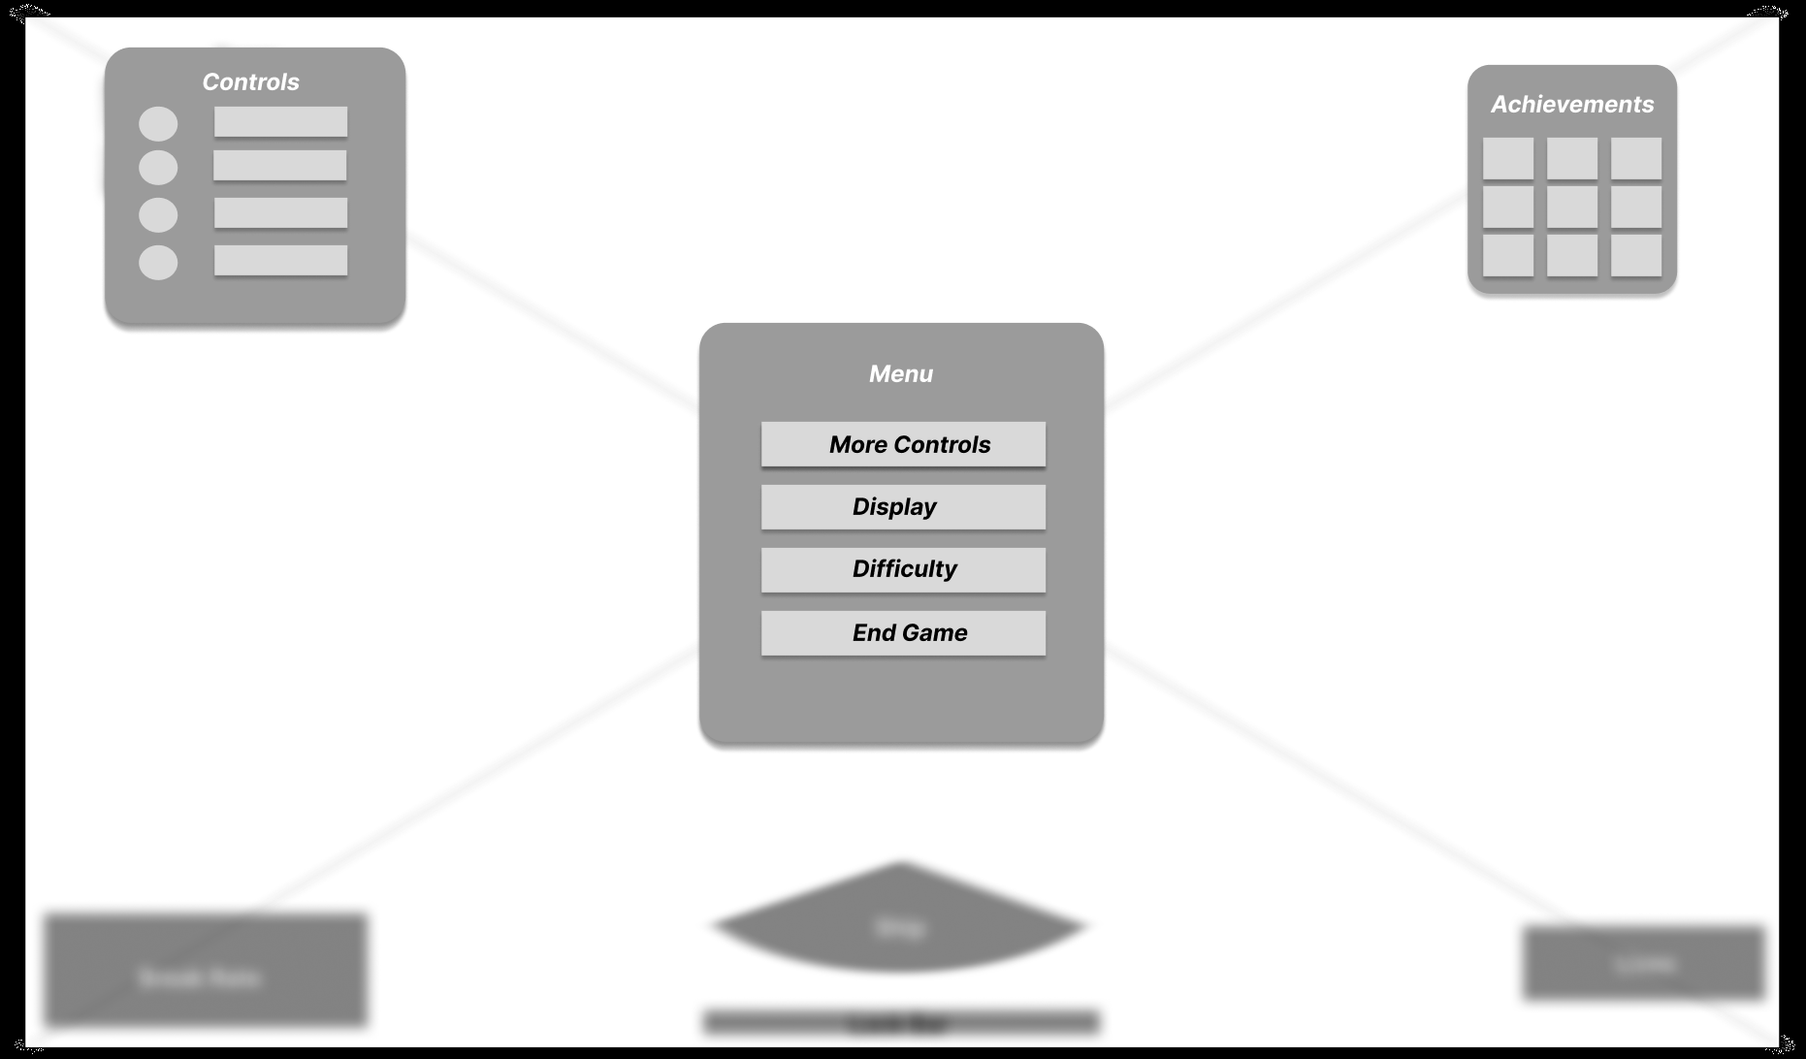
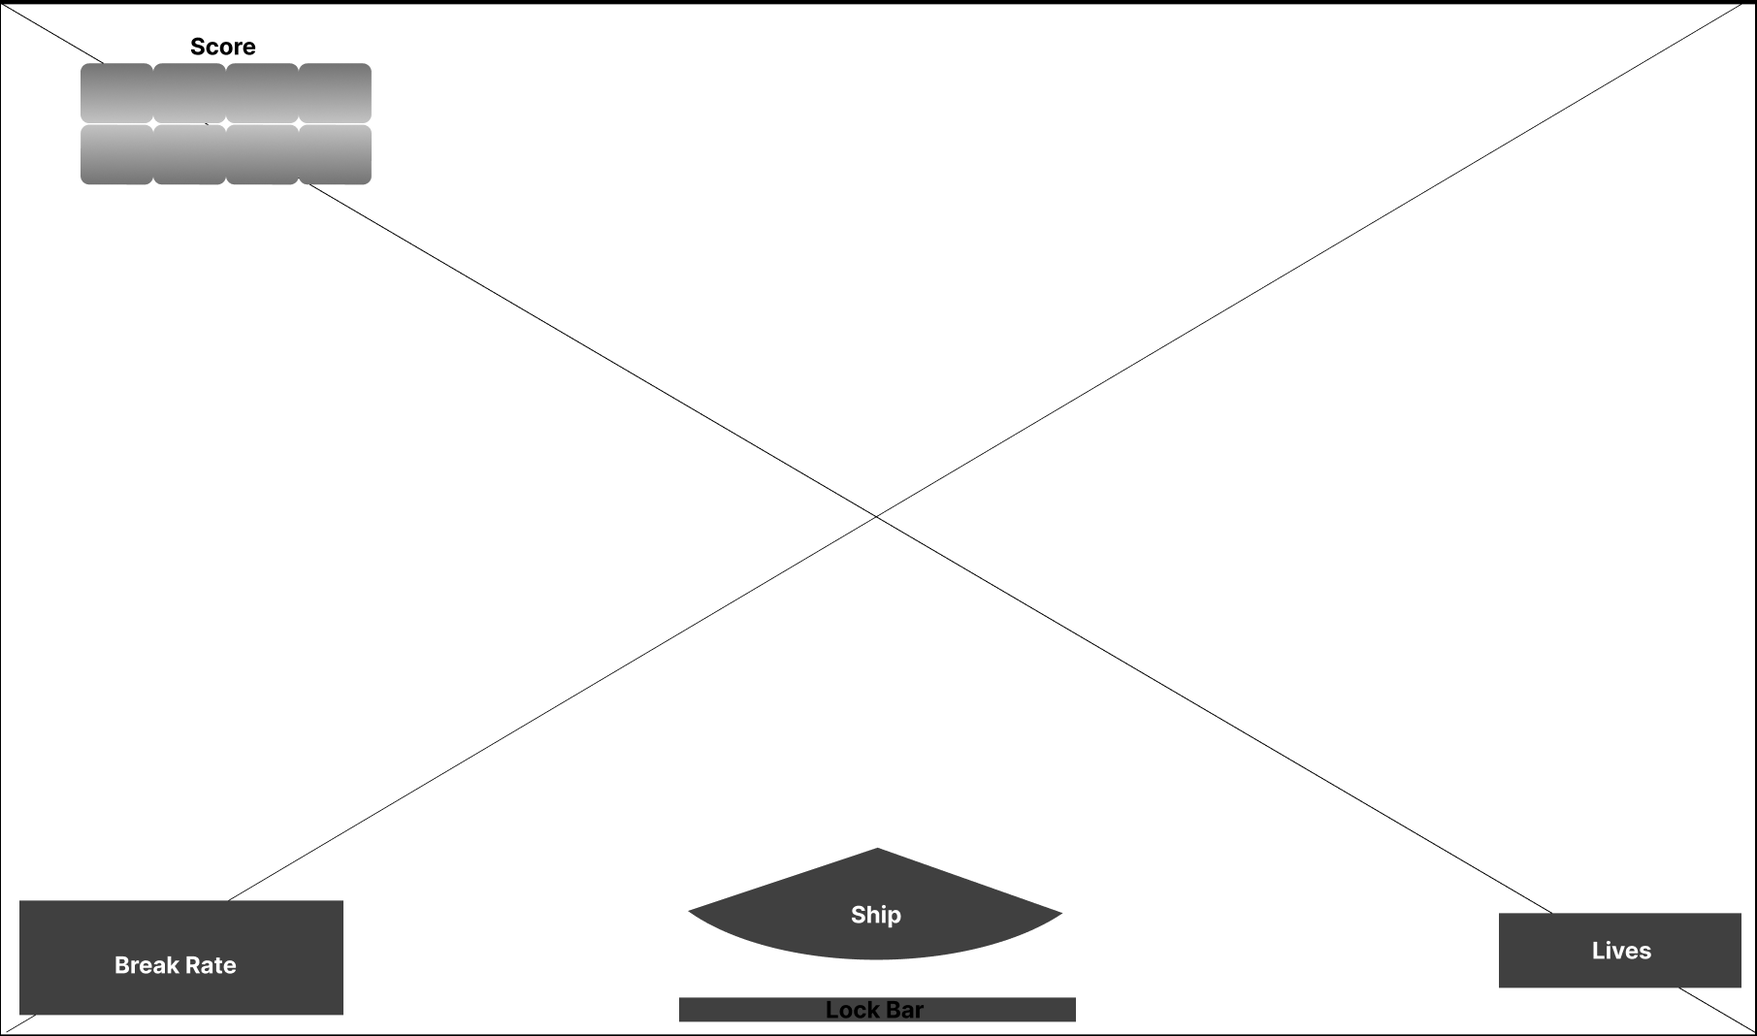
Fix Crimson Clover wireframes and layout

Changed region(s): [[0.0, 0.0, 1.0, 1.0], [0.3711, 0.2781, 0.6184, 0.7107], [0.804, 0.0618, 0.9277, 0.309]]

diff --git a/crimson-clover.html b/crimson-clover.html
@@ -4,11 +4,10 @@
 :root{--bg:#0b1220;--card:#152238;--accent:#3d9cff;--text:#f5f7fa;--muted:#afbed2;--border:#293b55;--pink:#f02483}*{box-sizing:border-box}html{scroll-behavior:smooth}body{margin:0;background:var(--bg);color:var(--text);font:16px/1.75 Arial,Helvetica,sans-serif}a{color:inherit}.container{max-width:1200px;margin:auto;padding:0 28px}nav{display:flex;justify-content:space-between;align-items:center;padding:26px 0;border-bottom:1px solid var(--border)}.logo{font-size:21px;font-weight:800;letter-spacing:-1px;text-decoration:none}.logo span{color:var(--accent)}nav .links{display:flex;gap:24px}nav .links a{text-decoration:none;color:var(--muted);font-size:14px}nav .links a:hover{color:var(--accent)}.eyebrow{color:var(--accent);font-size:12px;letter-spacing:2.4px;text-transform:uppercase;font-weight:800}.hero{padding:86px 0 64px}h1{font-size:clamp(44px,6vw,76px);letter-spacing:-2.5px;line-height:1.1;max-width:1000px;margin:15px 0 20px}h1 em{font-style:normal;color:var(--pink)}h2{font-size:clamp(29px,3.5vw,44px);letter-spacing:-1.3px;line-height:1.2;margin:12px 0 20px}h3{font-size:21px;line-height:1.3;margin:0 0 10px}p{color:var(--muted);margin:0 0 18px}.lead{font-size:19px;max-width:780px}.chips{display:flex;flex-wrap:wrap;gap:10px;margin:24px 0}.chip{border:1px solid var(--border);background:var(--card);border-radius:100px;padding:6px 14px;color:#d8e3f2;font-size:12px}.btns{display:flex;flex-wrap:wrap;gap:12px;margin:26px 0 0}.btn{padding:12px 22px;border-radius:28px;background:var(--accent);color:#07101e;text-decoration:none;font-weight:700;font-size:14px}.btn.secondary{background:transparent;border:1px solid var(--accent);color:var(--text)}.figure{background:#101b2d;border:1px solid var(--border);border-radius:15px;padding:16px;margin:24px 0;overflow:hidden}.figure img{display:block;width:100%;height:auto;border-radius:8px}.figure figcaption{color:var(--muted);font-size:13px;margin-top:12px;line-height:1.6}.hero .figure{margin-top:35px}.section{padding:74px 0;border-top:1px solid var(--border)}.section .intro{max-width:830px}.grid2{display:grid;grid-template-columns:repeat(2,minmax(0,1fr));gap:20px}.grid3{display:grid;grid-template-columns:repeat(3,minmax(0,1fr));gap:18px}.panel{background:var(--card);border:1px solid var(--border);border-radius:15px;padding:24px}.panel p:last-child{margin-bottom:0}.panel .number{font-size:12px;color:var(--accent);font-weight:bold;letter-spacing:2px}.note{border-left:3px solid var(--pink);padding:12px 20px;background:#121e32;color:#d5e2f2;border-radius:0 10px 10px 0;margin:22px 0}.reference{margin:0;background:var(--card);border:1px solid var(--border);border-radius:14px;overflow:hidden}.reference img{width:100%;aspect-ratio:16/10;object-fit:cover;display:block}.reference div{padding:18px}.reference p{font-size:14px;margin:0}.compare .figure{margin:0}.small{font-size:14px}.callout{font-size:18px;color:#e9f2ff;max-width:850px}footer{border-top:1px solid var(--border);padding:30px 0 50px;color:var(--muted);font-size:13px}.back{color:var(--accent);text-decoration:none;font-size:14px}@media(max-width:800px){.grid2,.grid3{grid-template-columns:1fr}.hero{padding:62px 0 48px}.section{padding:54px 0}nav{flex-wrap:wrap;gap:12px}.container{padding:0 20px}.figure{padding:9px}h1{letter-spacing:-1.5px}}@media(max-width:400px){nav .links{gap:12px}nav .links a{font-size:12px}}
 </style></head><body><div class="container">
 <nav><a class="logo" href="index.html">ARRIYN AZAD<span>.</span></a><div class="links"><a href="index.html">Home</a><a href="index.html#work">Work</a><a href="about.html">About</a><a href="index.html#contact">Contact</a></div></nav>
-<main><header class="hero"><div class="eyebrow">Game UI &amp; Interface Design · Independent Redesign</div><h1>Crimson Clover <em>HUD Redesign.</em></h1><p class="lead">Reimagining a fast-paced arcade shooter's heads-up display for widescreen play—making essential information easier to locate without taking attention away from the action.</p><div class="chips"><span class="chip">UI Audit &amp; Competitive Analysis</span><span class="chip">User Flow</span><span class="chip">Wireframing</span><span class="chip">Visual Design</span><span class="chip">User Feedback</span></div><div class="btns"><a class="btn" href="#challenge">Explore the Challenge ↓</a><a class="btn secondary" href="#final">See the Redesign ↓</a></div><figure class="figure"><img src="crimson-original.png" alt="Original Crimson Clover gameplay showing a vertically oriented playfield, dense side panels, score, lives, and break rate"><figcaption><strong>Starting point — Original Crimson Clover interface.</strong> The game presents action in a tall central playfield, surrounded by large decorative panels and multiple HUD elements.</figcaption></figure></header>
+<main><header class="hero"><div class="eyebrow">Game UI &amp; Interface Design · Independent Redesign</div><h1>Crimson Clover <em>HUD Redesign.</em></h1><p class="lead">Reimagining a fast-paced arcade shooter's heads-up display for widescreen play—making essential information easier to locate without taking attention away from the action.</p><div class="chips"><span class="chip">UI Audit &amp; Competitive Analysis</span><span class="chip">Wireframing</span><span class="chip">Visual Design</span><span class="chip">User Feedback</span></div><div class="btns"><a class="btn" href="#challenge">Explore the Challenge ↓</a><a class="btn secondary" href="#final">See the Redesign ↓</a></div><figure class="figure"><img src="crimson-original.png" alt="Original Crimson Clover gameplay showing a vertically oriented playfield, dense side panels, score, lives, and break rate"><figcaption><strong>Starting point — Original Crimson Clover interface.</strong> The game presents action in a tall central playfield, surrounded by large decorative panels and multiple HUD elements.</figcaption></figure></header>
 <section class="section" id="challenge"><div class="eyebrow">01 / Project Brief</div><h2>Making a classic arcade interface feel at home on modern screens.</h2><p class="intro">Crimson Clover is a bullet-hell arcade shooter where players track projectiles, enemies, their ship, and performance information simultaneously. In the original presentation, the redesign brief called for a widescreen layout, more intentional HUD placement, a visually distinctive score counter, button prompts, and better visibility of enemies during play.</p><div class="grid3"><div class="panel"><div class="number">CHALLENGE 01</div><h3>Adapt the layout</h3><p>Explore a wider presentation while preserving enough room for the gameplay itself.</p></div><div class="panel"><div class="number">CHALLENGE 02</div><h3>Prioritize essential data</h3><p>Make score, lives, break rate, and the lock meter easy to locate at a glance.</p></div><div class="panel"><div class="number">CHALLENGE 03</div><h3>Support new players</h3><p>Introduce clear button prompts and a pause-menu structure for controls and settings.</p></div></div><div class="note">Design goal: reduce competing visual elements around the playfield while keeping information available when players need it. This is a conceptual UI redesign, not an implemented modification of the game.</div></section>
 <section class="section" id="research"><div class="eyebrow">02 / Research &amp; Competitive Analysis</div><h2>Learning from other arcade shooters.</h2><p class="intro">I compared three games in the genre to understand how color, contrast, and information placement affect readability during intense gameplay. Rather than copying a single interface, I used these observations to guide the Crimson Clover redesign.</p><div class="grid3"><article class="reference"><img src="crimson-reference-zeroranger.png" alt="Competitive analysis slide featuring ZeroRanger"><div><h3>ZeroRanger</h3><p>Its dark backdrop and bright projectiles create contrast, but a strong concentration of orange suggested a risk of blending gameplay elements with the UI.</p></div></article><article class="reference"><img src="crimson-reference-jamestown.png" alt="Competitive analysis slide featuring Jamestown Legend of the Lost Colony"><div><h3>Jamestown</h3><p>The colorful action and identifiable enemies provided a reference for distinguishing active gameplay from supporting information.</p></div></article><article class="reference"><img src="crimson-reference-bluerevolver.png" alt="Competitive analysis slide featuring Blue Revolver"><div><h3>Blue Revolver</h3><p>Its readable bottom status bar showed how useful information can be grouped along an edge of the screen.</p></div></article></div><p class="small" style="margin-top:18px">These are qualitative observations from my competitive audit, not results from a controlled comparative study.</p></section>
-<section class="section" id="flow"><div class="eyebrow">03 / Information Architecture</div><h2>Mapping the player's journey.</h2><p class="intro">Before developing the interface, I mapped the journey from the main screen through game setup and into gameplay. The flow includes difficulty and mode selection, ship selection, an optional tutorial, and a level summary. Separate paths lead to settings and high scores.</p><figure class="figure"><img src="crimson-flow.png" alt="Pink-box user flow diagram showing main menu, game setup, gameplay, level summary, settings and high scores" loading="lazy"><figcaption>User flow — A proposed structure for moving between game setup, active play, settings, and progression.</figcaption></figure></section>
-<section class="section" id="wireframes"><div class="eyebrow">04 / Wireframing</div><h2>Repositioning the HUD before adding visual detail.</h2><p class="intro">I started by documenting the existing screen structure, then explored a widescreen wireframe that places the score at the upper left, break rate at the lower left, lives at the lower right, and the lock bar near the bottom center. This establishes predictable locations for information while leaving the central area available for gameplay.</p><div class="grid2 compare"><figure class="figure"><img src="crimson-wireframe-original.png" alt="Original wireframe showing a narrow gameplay area with side borders and HUD information" loading="lazy"><figcaption><strong>Original layout study.</strong> Large side borders surround the central playfield, with status information split between the borders and gameplay area.</figcaption></figure><figure class="figure"><img src="crimson-wireframe-hud.png" alt="Updated widescreen wireframe with score top left, break rate bottom left, lives bottom right and lock bar bottom center" loading="lazy"><figcaption><strong>Revised gameplay wireframe.</strong> The main HUD elements move to screen corners and edges to free up the middle.</figcaption></figure></div><h3 style="margin-top:34px">Designing the pause-menu state</h3><p class="intro">I also explored how players could access guidance without permanently displaying instructions over gameplay. The pause-menu wireframe introduces a controls reference, an achievements panel, and a central settings menu.</p><figure class="figure"><img src="crimson-wireframe-menu.png" alt="Grayscale pause menu wireframe with controls, achievements and central menu" loading="lazy"><figcaption>Pause-menu wireframe — The background gameplay is visually de-emphasized so controls and menu actions become the focus.</figcaption></figure></section>
-<section class="section" id="final"><div class="eyebrow">05 / High-Fidelity UI</div><h2>A cleaner view of the action.</h2><p class="intro">In the final gameplay mockup, I expanded the visible play area and distributed the HUD around its edges. The score receives a bold, arcade-inspired numeric treatment; the break-rate multiplier is anchored at the lower left; lives remain visible at the lower right; and the lock meter stays centered near the bottom.</p><figure class="figure"><img src="crimson-hud.png" alt="Crimson Clover redesigned gameplay screen with wide gameplay, bold score, break rate, lives and lock bar" loading="lazy"><figcaption>Final gameplay HUD concept — A widescreen composition with a stronger separation between active play and supporting information.</figcaption></figure><div class="grid2"><div class="panel"><h3>Glanceable information</h3><p>Separating score, break rate, and lives into distinct corners creates a more predictable hierarchy for quick checks during play.</p></div><div class="panel"><h3>Arcade character, modern layout</h3><p>The redesign retains bright, energetic visual styling while reconsidering where information belongs on a wider screen.</p></div></div><h2 style="margin-top:54px">A pause menu that helps, not distracts.</h2><p class="intro">The pause-menu concept dims the action and introduces three clear zones: a controls legend on the left, a focused menu in the center, and an achievements panel on the right. The central options include More Controls, Display, Difficulty, and End Game.</p><figure class="figure"><img src="crimson-menu.png" alt="Crimson Clover pause menu redesign with controller prompts on left, settings in center, achievements on right" loading="lazy"><figcaption>Final pause-menu concept — Controls and achievements remain accessible while the main settings choices take visual priority.</figcaption></figure></section>
-<section class="section" id="testing"><div class="eyebrow">06 / User Feedback</div><h2>What the feedback revealed.</h2><p class="intro">I collected qualitative feedback using five questions about the game type, score placement, lives indicator, controls, and suggested improvements. The recorded responses highlighted both promising decisions and areas that would benefit from another iteration.</p><div class="grid2"><div class="panel"><div class="number">WHAT WORKED</div><h3>Lives and controls were recognizable</h3><p>The respondent identified the lives indicator in the lower corner and considered it a convenient place to glance. They also described the controls legend as clear.</p></div><div class="panel"><div class="number">WHAT NEEDS WORK</div><h3>Achievements and customization</h3><p>The respondent could not easily interpret the achievement icons and suggested adding a way to change control mappings. They also questioned how the score display would accommodate larger numbers.</p></div></div><div class="note">This feedback comes from a documented respondent's answers. It is useful early qualitative input, but it does not establish that the redesign performs better for players overall.</div></section>
-<section class="section"><div class="eyebrow">07 / Reflection &amp; Next Steps</div><h2>Designing for attention, not just appearance.</h2><p class="intro">This project reinforced that game UI needs to work alongside the player's immediate task. A visually appealing HUD is only successful if players can read essential information without losing track of the action. My redesign explored a clearer hierarchy, a widescreen composition, and more accessible controls information.</p><div class="grid3"><div class="panel"><h3>Clarify achievements</h3><p>Add labels or tooltips so unfamiliar players understand what each icon represents.</p></div><div class="panel"><h3>Explore remapping</h3><p>Develop a dedicated control-customization flow rather than relying only on a static legend.</p></div><div class="panel"><h3>Test under real conditions</h3><p>Validate score overflow, contrast, enemy visibility, and glanceability during active gameplay with more players.</p></div></div><div class="btns" style="margin-top:38px"><a class="btn" href="index.html#work">← Back to Projects</a><a class="btn secondary" href="mw2.html">View MW2 Case Study →</a></div></section></main><footer>© 2026 Arriyn Azad. UX/UI Portfolio. · Independent concept redesign of Crimson Clover.</footer></div></body></html>
+<section class="section" id="wireframes"><div class="eyebrow">03 / Low-Fidelity Wireframes</div><h2>From the original layout to a clearer widescreen HUD.</h2><p class="intro">I first documented the game's existing layout, where a narrow central playfield sits between wide side panels and key indicators are spread across different areas. I then created two updated low-fidelity wireframes: one for active gameplay and another for the pause-menu state.</p><h3>Starting point — original game layout</h3><figure class="figure"><img src="crimson-wireframe-original.png" alt="Original game layout wireframe with tall central playfield, large side borders, score, break rate, lives, achievements, and lock bar" loading="lazy"><figcaption><strong>Original game layout wireframe.</strong> This documents the existing screen structure before the redesign, including the central playfield and information arranged across the side panels.</figcaption></figure><h3 style="margin-top:36px">Updated low-fidelity wireframe 01 — gameplay HUD</h3><p class="intro">The updated HUD explores a wider play area with the score in the upper-left corner, break rate at the lower left, lives at the lower right, and the lock bar near the bottom center. The intent is to make essential information easy to locate while keeping the middle of the screen focused on gameplay.</p><figure class="figure"><img src="crimson-wireframe-hud.png" alt="Updated low-fidelity gameplay HUD showing score upper left, break rate lower left, lives lower right, and lock bar bottom center" loading="lazy"><figcaption><strong>Updated gameplay HUD wireframe.</strong> The first redesigned low-fidelity layout, focused on repositioning status indicators.</figcaption></figure><h3 style="margin-top:36px">Updated low-fidelity wireframe 02 — pause menu</h3><p class="intro">For the pause state, I explored a central menu with options for controls, display, difficulty, and ending the game. A controls guide appears on the left, while achievements are grouped on the right. The gameplay behind the menu is subdued so the overlay becomes the focus.</p><figure class="figure"><img src="crimson-wireframe-menu.png" alt="Updated low-fidelity pause menu with controls guide at left, achievements at right, and settings menu in the center" loading="lazy"><figcaption><strong>Updated pause-menu wireframe.</strong> The second redesigned low-fidelity layout, exploring how players access controls and settings without crowding the active gameplay HUD.</figcaption></figure></section>
+<section class="section" id="final"><div class="eyebrow">04 / High-Fidelity UI</div><h2>A cleaner view of the action.</h2><p class="intro">In the final gameplay mockup, I expanded the visible play area and distributed the HUD around its edges. The score receives a bold, arcade-inspired numeric treatment; the break-rate multiplier is anchored at the lower left; lives remain visible at the lower right; and the lock meter stays centered near the bottom.</p><figure class="figure"><img src="crimson-hud.png" alt="Crimson Clover redesigned gameplay screen with wide gameplay, bold score, break rate, lives and lock bar" loading="lazy"><figcaption>Final gameplay HUD concept — A widescreen composition with a stronger separation between active play and supporting information.</figcaption></figure><div class="grid2"><div class="panel"><h3>Glanceable information</h3><p>Separating score, break rate, and lives into distinct corners creates a more predictable hierarchy for quick checks during play.</p></div><div class="panel"><h3>Arcade character, modern layout</h3><p>The redesign retains bright, energetic visual styling while reconsidering where information belongs on a wider screen.</p></div></div><h2 style="margin-top:54px">A pause menu that helps, not distracts.</h2><p class="intro">The pause-menu concept dims the action and introduces three clear zones: a controls legend on the left, a focused menu in the center, and an achievements panel on the right. The central options include More Controls, Display, Difficulty, and End Game.</p><figure class="figure"><img src="crimson-menu.png" alt="Crimson Clover pause menu redesign with controller prompts on left, settings in center, achievements on right" loading="lazy"><figcaption>Final pause-menu concept — Controls and achievements remain accessible while the main settings choices take visual priority.</figcaption></figure></section>
+<section class="section" id="testing"><div class="eyebrow">05 / User Feedback</div><h2>What the feedback revealed.</h2><p class="intro">I collected qualitative feedback using five questions about the game type, score placement, lives indicator, controls, and suggested improvements. The recorded responses highlighted both promising decisions and areas that would benefit from another iteration.</p><div class="grid2"><div class="panel"><div class="number">WHAT WORKED</div><h3>Lives and controls were recognizable</h3><p>The respondent identified the lives indicator in the lower corner and considered it a convenient place to glance. They also described the controls legend as clear.</p></div><div class="panel"><div class="number">WHAT NEEDS WORK</div><h3>Achievements and customization</h3><p>The respondent could not easily interpret the achievement icons and suggested adding a way to change control mappings. They also questioned how the score display would accommodate larger numbers.</p></div></div><div class="note">This feedback comes from a documented respondent's answers. It is useful early qualitative input, but it does not establish that the redesign performs better for players overall.</div></section>
+<section class="section"><div class="eyebrow">06 / Reflection &amp; Next Steps</div><h2>Designing for attention, not just appearance.</h2><p class="intro">This project reinforced that game UI needs to work alongside the player's immediate task. A visually appealing HUD is only successful if players can read essential information without losing track of the action. My redesign explored a clearer hierarchy, a widescreen composition, and more accessible controls information.</p><div class="grid3"><div class="panel"><h3>Clarify achievements</h3><p>Add labels or tooltips so unfamiliar players understand what each icon represents.</p></div><div class="panel"><h3>Explore remapping</h3><p>Develop a dedicated control-customization flow rather than relying only on a static legend.</p></div><div class="panel"><h3>Test under real conditions</h3><p>Validate score overflow, contrast, enemy visibility, and glanceability during active gameplay with more players.</p></div></div><div class="btns" style="margin-top:38px"><a class="btn" href="index.html#work">← Back to Projects</a><a class="btn secondary" href="mw2.html">View MW2 Case Study →</a></div></section></main><footer>© 2026 Arriyn Azad. UX/UI Portfolio. · Independent concept redesign of Crimson Clover.</footer></div></body></html>
